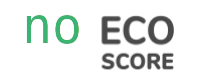
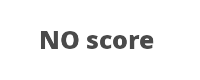
next

Changed region(s): [[0.12, 0.175, 0.87, 0.625], [0.48, 0.65, 0.87, 0.875]]

diff --git a/backend.html b/backend.html
@@ -52,7 +52,7 @@
                             <span class="text-success"> 0.1 Alfa version</span>
                         </div>
                         <div class="card-body">
-                             <img class="card-img-top" src="img/eco-logo.png" style="width:112px;height:100px;">
+                             <img class="card-img-top" src="img/eco-logo.png" style="width:400px;height:100px;">
                             <hr>
                             <h2 class="card-title">Upload advertiser feed</h2>
                             <p class="card-text">The system will analyse the products with a 3nd party Database and match ECO labels on products</p>
@@ -70,6 +70,10 @@
                         <div id="bar">
                             <div id="loading"></div>
                         </div>
+                    </div>
+                    <br>
+                    <div class="card rounded-0 shadow-sm" >
+                        <img class="" src="img/scoring.png" style="width:540px;height:86px;">
                     </div>
                 </div>
                 <div class="col">
